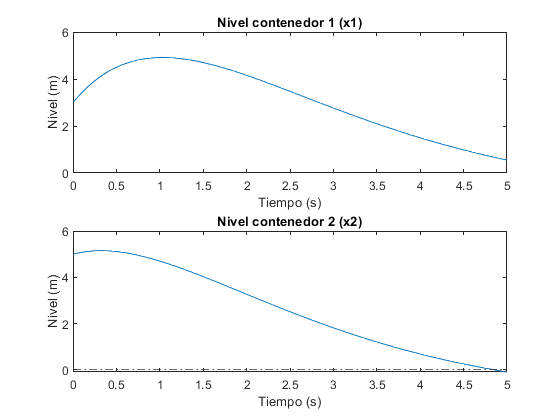
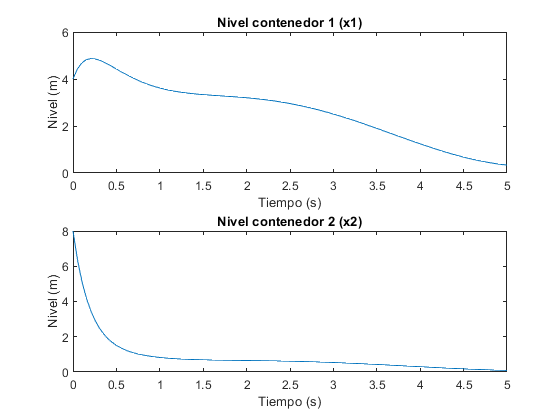
push final

diff --git a/Lab3/parte2/parte2.m b/Lab3/parte2/parte2.m
@@ -92,15 +92,17 @@ r2 = 1/16;
 sys = ss(A,B,C,D, 'StateName', {'x1' 'x2'});
 
 % Se crea un vector de tiempo a 5 segundos
-t = (0:0.05:10)';
-% Se crea una función step
+t = (0:0.05:5)';
+% Se crea una función de entrada
 u = ones(1, length(t));
+% O una función de entrada alternativa
+% u = 5 + 5*sin(t);
 
 % Condiciones iniciales para los niveles
 % Se fija con un valor mayor a 0 para que no llegue a valores negativos
 % demasiado rápido
 % x_0 = [ nivel x1, nivel x2 ]
-x_0 = [4, 6];
+x_0 = [4, 8];
 
 % Se utiliza la función lsim en vez de step, para poder ingresar
 % condiciones iniciales

diff --git a/Lab3/parte2/fluxModelGeneric.m b/Lab3/parte2/fluxModelGeneric.m
@@ -11,9 +11,9 @@ function [A, B, C, D] = fluxModelGeneric(r1, r2, A1, A2)
     
     % Esto resulta en las ecuaciones de estado:
     % dx1/dt = - x1/(A1*r1) + x2/(A1*r1) + (1/A1)*F0
-    % dx2/dt = x1/(A2*r1) - x2/(A2*(r1+r2)) + 0*F0
+    % dx2/dt = x1/(A2*r1) - x2*(r1+r2)/(A2*r1*r2) + 0*F0
     
-    A = [-1/(A1*r1)  1/(A1*r1) ;  1/(A2*r1)  -1/(A2*(r1+r2)) ];
+    A = [-1/(A1*r1)  1/(A1*r1) ;  1/(A2*r1)  -(r1+r2)/(A2*r1*r2) ];
     B = [1/A1 ; 0];
     C = [1 0 ; 0 1];
     D = [0 ; 0];
